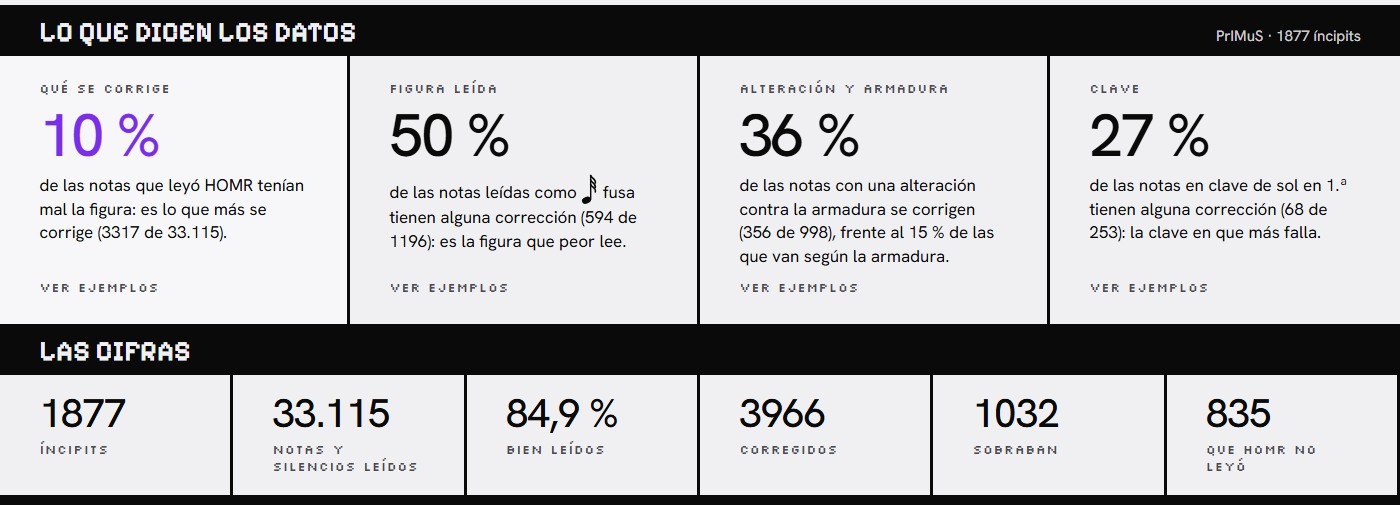
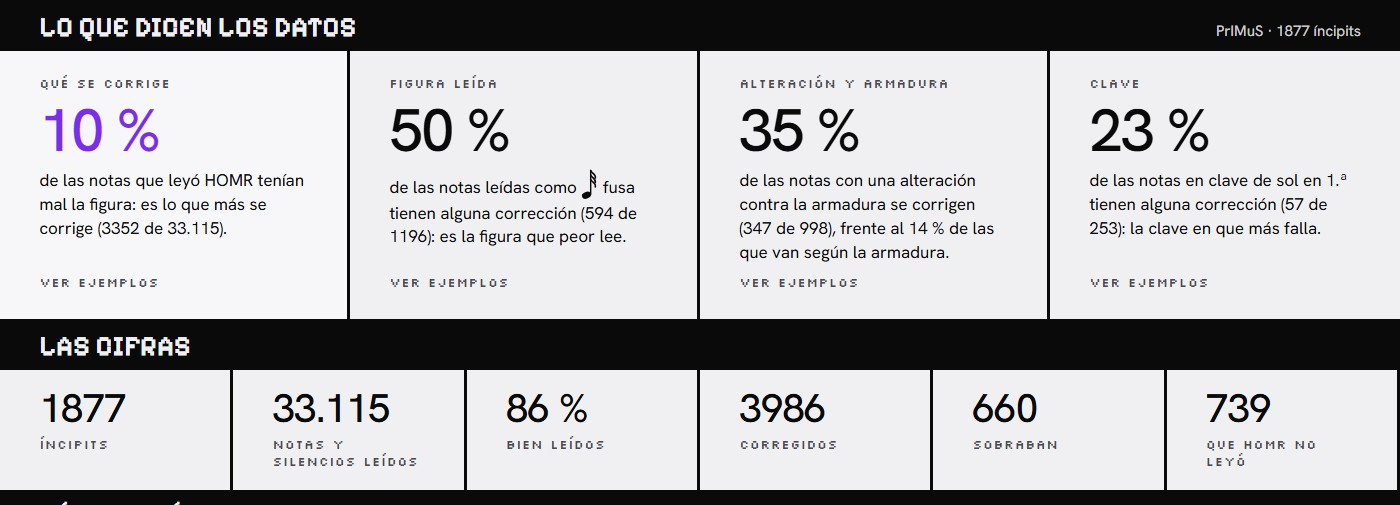
docs(docs): el informe final, con las cifras de la alineación del íncipit entero
La página de los errores de HOMR cambió con #466: las cifras de PrIMuS, la
explicación de las barras de compás, las tres capturas y la columna de
Camera-PrIMuS de la tabla de correcciones verificadas, regenerada.

Refs #466

diff --git a/latex/informe_final/main.tex b/latex/informe_final/main.tex
@@ -1535,12 +1535,15 @@ actualiza sola.
 
 La cabecera resume lo más relevante y da los totales
 (Figura~\ref{fig:errores-cifras}). Para el corpus de PrIMuS, HOMR leyó
-33\,115 notas y silencios en 1\,877 íncipits; el 84,9\,\% quedó igual que
-en la referencia, 3\,966 hubo que corregirlos, 1\,032 sobraban y 835 no se
-leyeron. Estos totales cuentan todos los íncipits leídos, y no solo
+33\,115 notas y silencios en 1\,877 íncipits; el 86\,\% quedó igual que
+en la referencia, 3\,986 hubo que corregirlos, 660 sobraban y 739 no se
+leyeron. Cada lectura se compara con la referencia en orden, de principio a
+fin, y no compás por compás: si HOMR no leyó una barra de compás, las notas
+de los dos lados siguen contando como bien leídas y el error se registra
+como barra no leída (89 en PrIMuS, y 5 barras de más). Estos totales cuentan todos los íncipits leídos, y no solo
 aquellos cuya secuencia de correcciones se verifica, que son los de la
 Tabla~\ref{tab:tipos-error}.
-% fuente: GET /api/stats/homr-errors, grupo «primus» (scores 1877, read 33115, outcome.bien 28107, .corregida 3966, .borrada 1032, missing 835), consultado el 2026-11-19; lo calcula el servicio stats a partir del corpus de exp_12. Coincide con results/correction_corpus_summary.json:edit_distribution.all_derived (Total 5992 = 3317 + 1032 + 835 + 589 + 201 + 10 + 8).
+% fuente: /errores-de-homr, grupo «primus» (1877 íncipits, 33.115 leídos, 86 % bien, 3986 corregidos, 660 sobraban, 739 no leídos; 89 barras no leídas y 5 de más), consultado el 2026-11-19 tras desplegar 44b1741 y copiar el corpus de exp_12 regenerado con el formato 2 (#466, ADR-0075: alineación del íncipit entero). Antes, con la alineación compás a compás: 84,9 %, 3966, 1032 y 835.
 
 \begin{figure*}[!t]
     \centering
@@ -1653,12 +1656,12 @@ referencia y se conservaron solo las secuencias verificadas, es decir,
 aquellas que al aplicarse reproducen la referencia. En el corpus de PrIMuS
 se verificó el 96,9\,\% de los íncipits leídos (1\,818 de 1\,877), con
 4\,994 correcciones, 2,75 de media por íncipit; en la muestra de
-Camera-PrIMuS, el 68,9\,\% (1\,544 de 2\,242), con 4\,559 correcciones.
-% fuente: results/correction_corpus_summary.json (verification.verified_count 1818, .rate 0.9686; edit_distribution.verified.counts.Total 4994; average_edits_per_verified_incipit 2.75); results/camera_primus_correction_corpus_summary.json (verification.verified_count 1544, .rate 0.6887; Total 4559)
+Camera-PrIMuS, el 68,8\,\% (1\,543 de 2\,242), con 4\,549 correcciones.
+% fuente: results/correction_corpus_summary.json (verification.verified_count 1818, .rate 0.9686; edit_distribution.verified.counts.Total 4994; average_edits_per_verified_incipit 2.75); results/camera_primus_correction_corpus_summary.json (verification.verified_count 1543, .rate 0.6882; Total 4549; regenerado el 2026-11-19 con 44b1741)
 La Tabla~\ref{tab:tipos-error} muestra cómo se reparten por tipo.
 
 % fuente: results/correction_corpus_summary.json:edit_distribution.verified.proportions (SetDuration 0.6231, InsertEvent 0.1288, DeleteEvent 0.1217, SetPitch 0.0849, SetAccidental 0.0402, SetClef 0.0008, SetKey 0.0004)
-% fuente: results/camera_primus_correction_corpus_summary.json:edit_distribution.verified.proportions (SetDuration 0.4339, InsertEvent 0.1551, DeleteEvent 0.1397, SetPitch 0.1698, SetAccidental 0.0783, SetClef 0.0075, SetKey 0.0158)
+% fuente: results/camera_primus_correction_corpus_summary.json:edit_distribution.verified.proportions (SetDuration 0.4346, InsertEvent 0.1545, DeleteEvent 0.1392, SetPitch 0.1699, SetAccidental 0.0785, SetClef 0.0075, SetKey 0.0158)
 \begin{table}[htbp]
 \caption{Correcciones verificadas por tipo}
 \label{tab:tipos-error}
@@ -1668,11 +1671,11 @@ La Tabla~\ref{tab:tipos-error} muestra cómo se reparten por tipo.
 \hline
 \textbf{Tipo de corrección} & \textbf{PrIMuS} & \textbf{Camera-PrIMuS} \\
 \hline
-Cambiar la figura & 62,3\,\% & 43,4\,\% \\
+Cambiar la figura & 62,3\,\% & 43,5\,\% \\
 \hline
 Insertar un evento & 12,9\,\% & 15,5\,\% \\
 \hline
-Borrar un evento & 12,2\,\% & 14,0\,\% \\
+Borrar un evento & 12,2\,\% & 13,9\,\% \\
 \hline
 Cambiar la altura & 8,5\,\% & 17,0\,\% \\
 \hline
@@ -1682,7 +1685,7 @@ Cambiar la armadura & 0,04\,\% & 1,6\,\% \\
 \hline
 Cambiar la clave & 0,08\,\% & 0,7\,\% \\
 \hline
-\textbf{Correcciones} & \textbf{4\,994} & \textbf{4\,559} \\
+\textbf{Correcciones} & \textbf{4\,994} & \textbf{4\,549} \\
 \hline
 \end{tabular}
 \end{table}
